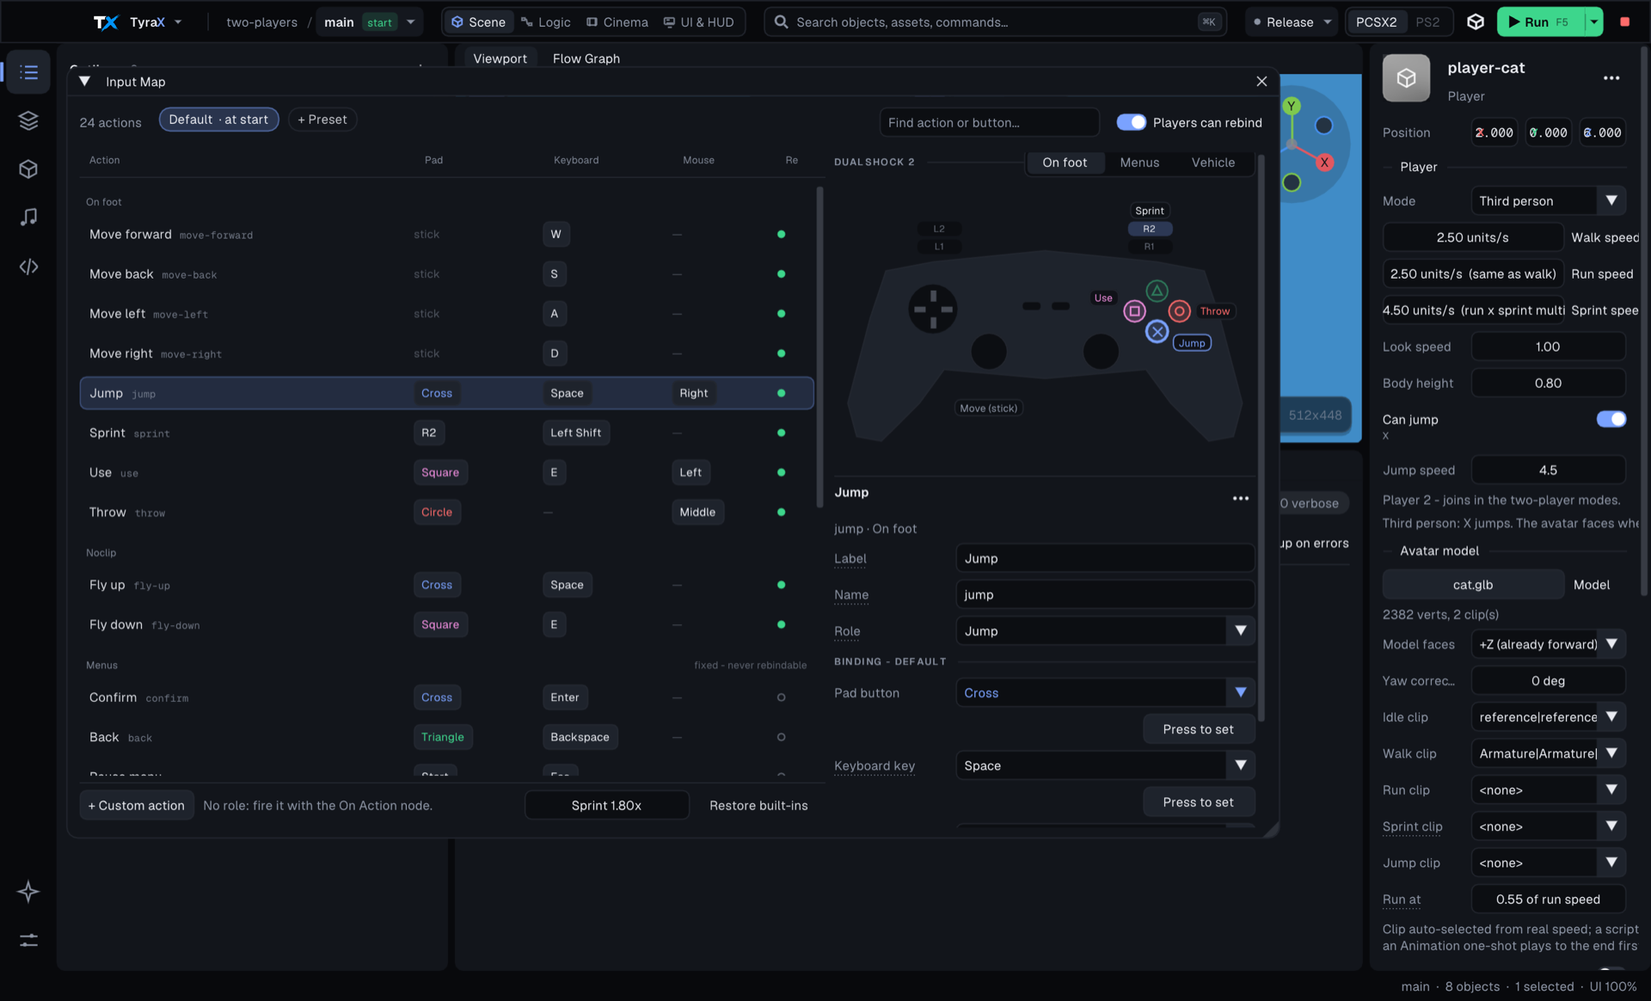
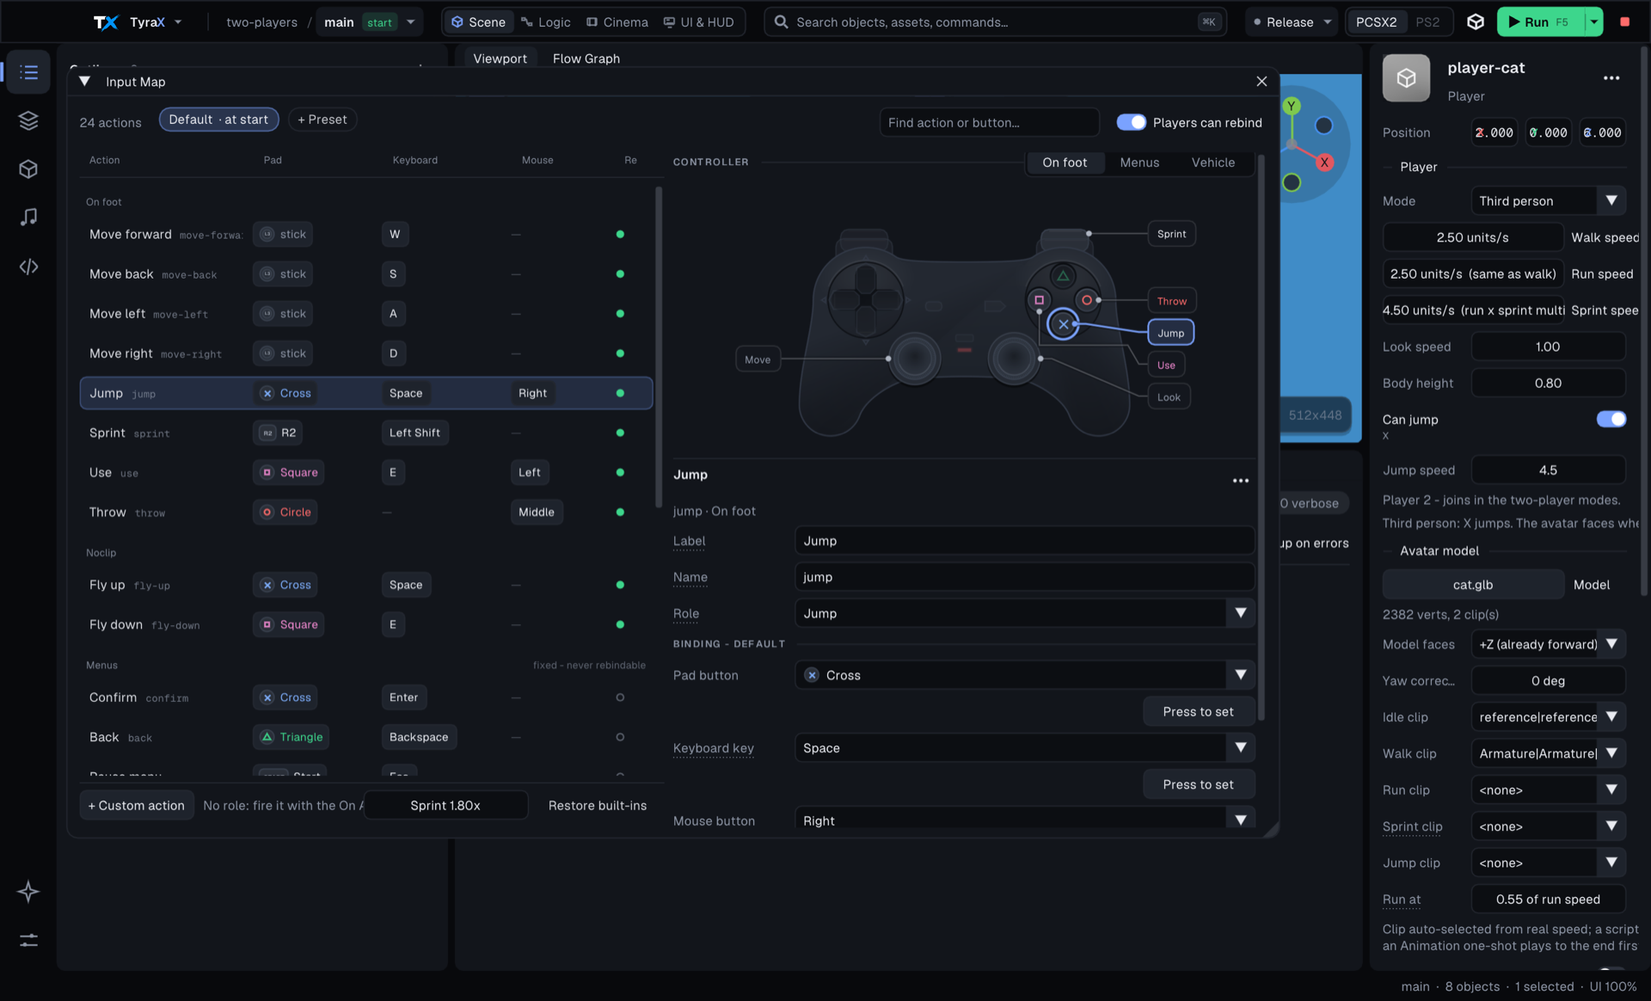
Docs: the controller widget - CHANGELOG, editor theme, skills, retaken shots
CHANGELOG 1.173.0 Finishing touches: one controller drawing, Remote Pad,
Input Map, pad-button pickers, AI press_pad. docs/editor-theme.md: a
"Controller" paragraph under Tool windows. Skills (both mirrors,
byte-identical): the pad kit section and its traps
(editor-ui-and-conventions), pad_widget.cpp in the source map, the item
names / ##Combo qualification in ui-script.md. Retaken docs/img/remote-pad.png
(day-night, keyboard on, Cross + R1 latched) and docs/img/input-map.png
(two-players, Jump selected) with --ui-script; the Input Map caption names
the controller drawing.

diff --git a/.agents/skills/tyra-editor-dev/references/editor-ui-and-conventions.md b/.agents/skills/tyra-editor-dev/references/editor-ui-and-conventions.md
@@ -78,6 +78,7 @@ A new setting lands inside this shape:
 - Panels as rounded cards = `ImGuiStyle::DockNodeRounding` (an in-tree ImGui patch, `vendor/imgui-tyrax/TYRAX-PATCHES.md`) set by `theme::applyMetrics`: tab bar rounded on top, docked window bg at the bottom. Full-bleed content in a docked panel (the viewport image) must round its own bottom corners with `DockNodeRounding` - the Viewport draws its texture with `AddImageRounded` over a `Dummy` for that reason.
 - Tool windows (docs/editor-theme.md "Tool windows"): docked via `App::dockToolWindows` (a new tool joins its `tools[]` table as Side/Visual/Page and calls `toolDockReady()` / `takeToolFocus()` before `Begin`); the start page is a `Welcome` window over a `KeepAliveOnly` dockspace (host sent to the back each frame); previews are second renders - `Viewport::renderGameView(slot, ...)` (game view: no grid/markers/gizmos/selection; one private target per `GameViewSlot`, re-rendered only when its key changes; `renderShot` wraps it), `assetOrbitView`, `prefabThumb` - never a hijacked viewport, and a tool that wants a scene picture takes its OWN slot (a shared target shows whichever window drew last). `assetThumb` must not cache 0 for a .glb whose bake is still running. Traps the redesign hit: every `uiFxSel_` kind needs its own id (motion blur = 10); `ui::Caption` upper-cases byte-wise (ASCII only, zero width - no SameLine after it); a `FontScope` must not span `EndTable`/`EndChild`; a canvas `InvisibleButton` under overlay buttons needs `SetNextItemAllowOverlap`; `uiscript::markLastItemChecked` must be called with false too; quiet tabs forced with SetSelected - ignore BeginTabItem's return on that frame; drawing after `SetCursorScreenPos` at a child's end needs a `Dummy(0,0)` first; `IMGUI_TEST_ENGINE_ITEM_INFO` reads a local `g` (no parameter named g); `theme::apply(ImGuiDark)` writes the CONTEXT style - call `applyTheme()` after reading another palette.
 - Tool windows are built from `src/toolkit.hpp` (`ui::`): one `PrimaryButton` per view, `EmptyState` (glyph, title, why, action) instead of a bare "No X.", `ListRow`/`ThumbTile`+`TileFlow` for collections, `VSplitter`/`HSplitter` between `BeginChild` panes (list | detail | preview), `BeginCard`, `Caption`, `ProgressInline` where the work happens, `StatusLine`/`Badge`, `UsedBy` links, `Segmented`. Same label=ID contract as widgets.hpp; colours only from `theme::semantics()`.
+- **Pad buttons are drawn and picked ONLY through the `pad` kit section** (`src/pad_widget.cpp`): `ui::PadDiagram` (Interactive = Remote Pad, Annotated = Input Map, Compact = cards/pickers), `PadButtonGlyph`/`PadButtonGlyphAt` (cells, chips), `PadButtonCombo` (any "which button" field; stores the kPadButtonNames name), `PadPortSegmented` (Pad 1/2 with port dots). Index by `kPadButtonNames` (input.hpp), never `livelogic::padButtons()` (different order). Colours: `theme::padColors()` (Graphite + light tables, other themes derived in theme.cpp `padOf`); face symbols use the real-pad tokens, not accent/danger. The widget owns no pad logic - callers read `PadDiagramOut` (clicked/held/stick drag) and feed `PadState` back. Traps: items are named `L2 L1 R1 R2 Up Left Right Down Triangle Square Circle Cross Select Start L3 R3` with NO PushID - one item-submitting diagram per window, and a window that also has a "Cross" widget makes bare `click Cross` ambiguous (qualify: `'##Combo/Triangle'` for the picker popup); `disabled` veils the drawing with `PadState::backdrop` (set it when the pad sits on a card, not the window bg) instead of per-primitive alpha, which let the tabs show through the body; `PadButtonCombo` names its combo for --ui-script itself (BeginCombo reports no label).
 - `src/widgets.hpp` (`ui::`): `boldFont()`/`monoFont()` (null = no face, `PushFont(nullptr,0)` keeps the current one), `FontScope`, `AxisDrag3` (DragScalarN skeleton: group + `PushID(label)` + unlabeled drags + `TextEx` label - like stock DragFloat3 the label is NOT a `--ui-script` name; target the fields by `dump` rect). New shared widgets go here and keep ImGui's label=ID / return / `IsItemDeactivatedAfterEdit` contract. The log panels measure (`logRefresh`) AND draw in the mono face - keep both inside the push.
 - `App::applyTheme()` = colours + metrics + scale, in that order; `baseStyle_` IS the themed style (`applyUiScale()` resets to it on every zoom step), and it must run AFTER `ImNodes::CreateContext()`. `ImGuiStyle`'s ctor leaves `FontSizeBase` 0, so the scale path restores `uiFontSize_` (0 = keep the built-in font's size). The EDITOR's typeface is embedded Geist (`resources/fonts`, `uifonts::kGeist*` from embed_binary.cmake; `FontDataOwnedByAtlas=false` - the bytes live in the exe); the system chains are MERGED behind each Geist face as glyph fallbacks: `platform::uiFontFiles` (regular + same-family heading cut, `.ttc` face index) and `platform::monoFontFiles` (separate from game font lookup); no variable fonts (stb_truetype cannot pick a weight).
 

diff --git a/.claude/skills/tyra-editor-dev/references/editor-ui-and-conventions.md b/.claude/skills/tyra-editor-dev/references/editor-ui-and-conventions.md
@@ -78,6 +78,7 @@ A new setting lands inside this shape:
 - Panels as rounded cards = `ImGuiStyle::DockNodeRounding` (an in-tree ImGui patch, `vendor/imgui-tyrax/TYRAX-PATCHES.md`) set by `theme::applyMetrics`: tab bar rounded on top, docked window bg at the bottom. Full-bleed content in a docked panel (the viewport image) must round its own bottom corners with `DockNodeRounding` - the Viewport draws its texture with `AddImageRounded` over a `Dummy` for that reason.
 - Tool windows (docs/editor-theme.md "Tool windows"): docked via `App::dockToolWindows` (a new tool joins its `tools[]` table as Side/Visual/Page and calls `toolDockReady()` / `takeToolFocus()` before `Begin`); the start page is a `Welcome` window over a `KeepAliveOnly` dockspace (host sent to the back each frame); previews are second renders - `Viewport::renderGameView(slot, ...)` (game view: no grid/markers/gizmos/selection; one private target per `GameViewSlot`, re-rendered only when its key changes; `renderShot` wraps it), `assetOrbitView`, `prefabThumb` - never a hijacked viewport, and a tool that wants a scene picture takes its OWN slot (a shared target shows whichever window drew last). `assetThumb` must not cache 0 for a .glb whose bake is still running. Traps the redesign hit: every `uiFxSel_` kind needs its own id (motion blur = 10); `ui::Caption` upper-cases byte-wise (ASCII only, zero width - no SameLine after it); a `FontScope` must not span `EndTable`/`EndChild`; a canvas `InvisibleButton` under overlay buttons needs `SetNextItemAllowOverlap`; `uiscript::markLastItemChecked` must be called with false too; quiet tabs forced with SetSelected - ignore BeginTabItem's return on that frame; drawing after `SetCursorScreenPos` at a child's end needs a `Dummy(0,0)` first; `IMGUI_TEST_ENGINE_ITEM_INFO` reads a local `g` (no parameter named g); `theme::apply(ImGuiDark)` writes the CONTEXT style - call `applyTheme()` after reading another palette.
 - Tool windows are built from `src/toolkit.hpp` (`ui::`): one `PrimaryButton` per view, `EmptyState` (glyph, title, why, action) instead of a bare "No X.", `ListRow`/`ThumbTile`+`TileFlow` for collections, `VSplitter`/`HSplitter` between `BeginChild` panes (list | detail | preview), `BeginCard`, `Caption`, `ProgressInline` where the work happens, `StatusLine`/`Badge`, `UsedBy` links, `Segmented`. Same label=ID contract as widgets.hpp; colours only from `theme::semantics()`.
+- **Pad buttons are drawn and picked ONLY through the `pad` kit section** (`src/pad_widget.cpp`): `ui::PadDiagram` (Interactive = Remote Pad, Annotated = Input Map, Compact = cards/pickers), `PadButtonGlyph`/`PadButtonGlyphAt` (cells, chips), `PadButtonCombo` (any "which button" field; stores the kPadButtonNames name), `PadPortSegmented` (Pad 1/2 with port dots). Index by `kPadButtonNames` (input.hpp), never `livelogic::padButtons()` (different order). Colours: `theme::padColors()` (Graphite + light tables, other themes derived in theme.cpp `padOf`); face symbols use the real-pad tokens, not accent/danger. The widget owns no pad logic - callers read `PadDiagramOut` (clicked/held/stick drag) and feed `PadState` back. Traps: items are named `L2 L1 R1 R2 Up Left Right Down Triangle Square Circle Cross Select Start L3 R3` with NO PushID - one item-submitting diagram per window, and a window that also has a "Cross" widget makes bare `click Cross` ambiguous (qualify: `'##Combo/Triangle'` for the picker popup); `disabled` veils the drawing with `PadState::backdrop` (set it when the pad sits on a card, not the window bg) instead of per-primitive alpha, which let the tabs show through the body; `PadButtonCombo` names its combo for --ui-script itself (BeginCombo reports no label).
 - `src/widgets.hpp` (`ui::`): `boldFont()`/`monoFont()` (null = no face, `PushFont(nullptr,0)` keeps the current one), `FontScope`, `AxisDrag3` (DragScalarN skeleton: group + `PushID(label)` + unlabeled drags + `TextEx` label - like stock DragFloat3 the label is NOT a `--ui-script` name; target the fields by `dump` rect). New shared widgets go here and keep ImGui's label=ID / return / `IsItemDeactivatedAfterEdit` contract. The log panels measure (`logRefresh`) AND draw in the mono face - keep both inside the push.
 - `App::applyTheme()` = colours + metrics + scale, in that order; `baseStyle_` IS the themed style (`applyUiScale()` resets to it on every zoom step), and it must run AFTER `ImNodes::CreateContext()`. `ImGuiStyle`'s ctor leaves `FontSizeBase` 0, so the scale path restores `uiFontSize_` (0 = keep the built-in font's size). The EDITOR's typeface is embedded Geist (`resources/fonts`, `uifonts::kGeist*` from embed_binary.cmake; `FontDataOwnedByAtlas=false` - the bytes live in the exe); the system chains are MERGED behind each Geist face as glyph fallbacks: `platform::uiFontFiles` (regular + same-family heading cut, `.ttc` face index) and `platform::monoFontFiles` (separate from game font lookup); no variable fonts (stb_truetype cannot pick a weight).
 

diff --git a/.agents/skills/tyra-testing/references/ui-script.md b/.agents/skills/tyra-testing/references/ui-script.md
@@ -46,6 +46,7 @@ The editor runs for real and holds its own mouse/keyboard, naming WIDGETS. No fo
 - **Input trickles one event per frame** (`io.ConfigInputTrickleEventQueue`). `wheel X -19` keeps scrolling ≥19 frames; a click computed during the scroll lands on whatever slid under it and reports SUCCESS. Measured: `frames 10` → view moved 300 px more, button never pressed; `frames 90` → two dumps agree, click lands. Rule: **`frames 60`–`90` after any `wheel`, then `dump` twice and require equal rects.** Same for `text` → `frames 5` before clicking the button that consumes it (`BeginDisabled` on an empty field makes an early Send a no-op that "succeeds").
 - **Popup items live in their own window** (`##Popup_<hash>`): grep `dump` for the LABEL, confirm with `shot` before calling a popup broken.
 - Names added by the 1.173 finishing round: `Asset preview` (Asset Browser inspector canvas: drag = orbit), `Vehicle Editor/Near` / `Far`, `Show probes in viewport` (GI tab, below the fold - wheel first), `Play clip` / `Pause clip` / `##cliptime` (Import model), `Bones` (Animation Editor), Material Editor `Source` / `Colour` / `Range` / `Invert`, Drone pills `Layer 1`..`Layer 4` (voice chips by full window path - `dump` shows them as 1..6), World Facts `##qfilter` / `##rfilter` / `##sfilter` / `##bbfilter`, `Viewport/##viewport_header_*/Move panel`, Ambience `Simple` / `Detailed` / look names / `Time of day` / fog `Off`..`Thick` / `Time passes`. Drone Generator: `Drone Generator/Simple` / `Detailed` (qualify - Ambience has the same pair), `##drn_mood_N`, `##drn_bright`..`##drn_chimes`, `##drn_shape`, `##drn_feeling`, `##drn_loud`, `30 s`/`1 min` chips, `Another take`, `Undo`, `Save to project`, `Open in Flow`, `+ Play in another scene...`. View > Static batches sits below the View menu's bottom at the default height - use Tools > Static Batches > *Colour batches in viewport*.
+- **Controller drawings** (Remote Pad, Input Map, pad-button pickers): each element is an item named `L2 L1 R1 R2 Up Left Right Down Triangle Square Circle Cross Select Start L3 R3`, checked = pressed (Input Map: = the selected action's button) - `shiftclick 'Remote Pad/Cross'` (with *Shift-click holds a button* on) then `expect-checked 'Remote Pad/Cross'` asserts what the game is sent. A pad-button combo (`'Input Map/Pad button'`, `'Flow Graph/Button'` with the node selected, `'Properties/Toggle button'`) opens a popup with the same pad items plus list rows named `Cross`, `DpadUp`...; qualify them as `'##Combo/Triangle'` - a bare `Triangle` hits the Input Map's own diagram first. Flow Graph node ids live in `objects/<id>.json`; check the RIGHT object (two-player examples have several players).
 - Close floating tool windows (or drop their open flag in the scratch layout) before scripted scene selection — an overlapping Tree Generator intercepts clicks.
 - The automatic startup update check is skipped while a UI script runs (`uiScriptActive_`).
 - Hermetic runs: set `XDG_CONFIG_HOME` (or `LOCALAPPDATA`) to a scratch dir — `editor.ini` and history persist toggles (e.g. `chatAllowEdits_`) into the next run; a scripted checkbox click is a toggle, so `expect-checked` right after.

diff --git a/.claude/skills/tyra-testing/references/ui-script.md b/.claude/skills/tyra-testing/references/ui-script.md
@@ -46,6 +46,7 @@ The editor runs for real and holds its own mouse/keyboard, naming WIDGETS. No fo
 - **Input trickles one event per frame** (`io.ConfigInputTrickleEventQueue`). `wheel X -19` keeps scrolling ≥19 frames; a click computed during the scroll lands on whatever slid under it and reports SUCCESS. Measured: `frames 10` → view moved 300 px more, button never pressed; `frames 90` → two dumps agree, click lands. Rule: **`frames 60`–`90` after any `wheel`, then `dump` twice and require equal rects.** Same for `text` → `frames 5` before clicking the button that consumes it (`BeginDisabled` on an empty field makes an early Send a no-op that "succeeds").
 - **Popup items live in their own window** (`##Popup_<hash>`): grep `dump` for the LABEL, confirm with `shot` before calling a popup broken.
 - Names added by the 1.173 finishing round: `Asset preview` (Asset Browser inspector canvas: drag = orbit), `Vehicle Editor/Near` / `Far`, `Show probes in viewport` (GI tab, below the fold - wheel first), `Play clip` / `Pause clip` / `##cliptime` (Import model), `Bones` (Animation Editor), Material Editor `Source` / `Colour` / `Range` / `Invert`, Drone pills `Layer 1`..`Layer 4` (voice chips by full window path - `dump` shows them as 1..6), World Facts `##qfilter` / `##rfilter` / `##sfilter` / `##bbfilter`, `Viewport/##viewport_header_*/Move panel`, Ambience `Simple` / `Detailed` / look names / `Time of day` / fog `Off`..`Thick` / `Time passes`. Drone Generator: `Drone Generator/Simple` / `Detailed` (qualify - Ambience has the same pair), `##drn_mood_N`, `##drn_bright`..`##drn_chimes`, `##drn_shape`, `##drn_feeling`, `##drn_loud`, `30 s`/`1 min` chips, `Another take`, `Undo`, `Save to project`, `Open in Flow`, `+ Play in another scene...`. View > Static batches sits below the View menu's bottom at the default height - use Tools > Static Batches > *Colour batches in viewport*.
+- **Controller drawings** (Remote Pad, Input Map, pad-button pickers): each element is an item named `L2 L1 R1 R2 Up Left Right Down Triangle Square Circle Cross Select Start L3 R3`, checked = pressed (Input Map: = the selected action's button) - `shiftclick 'Remote Pad/Cross'` (with *Shift-click holds a button* on) then `expect-checked 'Remote Pad/Cross'` asserts what the game is sent. A pad-button combo (`'Input Map/Pad button'`, `'Flow Graph/Button'` with the node selected, `'Properties/Toggle button'`) opens a popup with the same pad items plus list rows named `Cross`, `DpadUp`...; qualify them as `'##Combo/Triangle'` - a bare `Triangle` hits the Input Map's own diagram first. Flow Graph node ids live in `objects/<id>.json`; check the RIGHT object (two-player examples have several players).
 - Close floating tool windows (or drop their open flag in the scratch layout) before scripted scene selection — an overlapping Tree Generator intercepts clicks.
 - The automatic startup update check is skipped while a UI script runs (`uiScriptActive_`).
 - Hermetic runs: set `XDG_CONFIG_HOME` (or `LOCALAPPDATA`) to a scratch dir — `editor.ini` and history persist toggles (e.g. `chatAllowEdits_`) into the next run; a scripted checkbox click is a toggle, so `expect-checked` right after.

diff --git a/CHANGELOG.md b/CHANGELOG.md
@@ -64,6 +64,11 @@ Each tool now shows what it makes as the hero, puts its one main action in plain
 - Opening a project can be cancelled while it loads (Cancel or Esc).
 - **Input Map**: *Press to set* for the mouse button.
 - The **command palette** (Ctrl/Cmd+K) finds every menu command, with its menu path and shortcut.
+- **One controller drawing everywhere**: Remote Pad, the Input Map and every pad-button picker now show the same DualShock 2 - two round lobes, the four-key d-pad, the face buttons in their real colours, L2/L1 and R1/R2 as stacked tabs, Select/Start/Analog with its LED and big ridged sticks.
+- **Remote Pad**: a pressed button fills and glows whatever pressed it (mouse, keys, a `--pad` script or the AI); the P1/P2 badge and the Pad 1/Pad 2 dots show the port; the stick gauges show the deadzone and the numbers sit under the pad; key caps sit beside the buttons they drive; the card lists what is held. With no game running the pad dims and its LED goes out.
+- **Input Map**: the controller labels every bound button in tidy columns (leaders never cross), rings the selected action's button and marks two actions on one button in amber; click a button to select its action. *Press to set* makes the pad pulse - click the button on the drawing when no controller is connected. The Pad column shows each button's symbol.
+- **Pad-button pickers** (Input Map, the Flow Graph's On Button, the flashlight's Toggle button) show the button's symbol and open over a small pad you can click.
+- **AI Assistant**: a `press_pad` step shows small controllers with what the assistant pressed and for how long.
 ## 1.172.2 - 2026-10-16
 
 ### Releases

diff --git a/.agents/skills/tyra-editor-dev/references/source-map.md b/.agents/skills/tyra-editor-dev/references/source-map.md
@@ -56,6 +56,7 @@ Read when you need to find which file owns something, or before adding a file. L
 | `menu_actions.cpp/.hpp` | 126 | `menuact::BeginMenu/EndMenu/MenuItem` - plain ImGui when drawing, a harvest pass for the command palette (every main-menu item must use them) | editor-ui-and-conventions |
 | `palette_ui.cpp` | 450 | Command palette (Ctrl/Cmd+K; Ctrl+Enter hands the query to the AI Assistant): commands, objects, scenes, windows (`windowTitle` table over `chatWindowKeys`), layouts, docs (`aichat::docIndex`) | editor-ui-and-conventions |
 | `toolkit.cpp/.hpp` | 330 | Tool-window kit (`ui::`): PrimaryButton/DangerButton/GhostButton, VSplitter/HSplitter, BeginCard, Caption, ListRow, ThumbTile+TileFlow, EmptyState, ProgressInline, StatusLine, Badge, UsedBy, Segmented | editor-ui-and-conventions |
+| `pad_widget.cpp` | 1.2k | The toolkit's `pad` section: `ui::PadDiagram` (the one DualShock 2 - geometry table, Interactive/Annotated/Compact, callout slots), `PadButtonGlyph`, `PadButtonCombo`, `PadPortSegmented` | editor-ui-and-conventions |
 | `widgets.cpp/.hpp` | 130 | `ui::` shared widgets (AxisDrag3, Keycap, ShortcutChord) + heading/mono faces | editor-ui-and-conventions |
 | `uiscript.cpp/.hpp` | 740 | `--ui-script` item registry + script | editor-ui-and-conventions |
 | `viewport.cpp/.hpp` | 8.8k / 1.6k | Offscreen GL 3.3 preview | viewport |

diff --git a/.claude/skills/tyra-editor-dev/references/source-map.md b/.claude/skills/tyra-editor-dev/references/source-map.md
@@ -56,6 +56,7 @@ Read when you need to find which file owns something, or before adding a file. L
 | `menu_actions.cpp/.hpp` | 126 | `menuact::BeginMenu/EndMenu/MenuItem` - plain ImGui when drawing, a harvest pass for the command palette (every main-menu item must use them) | editor-ui-and-conventions |
 | `palette_ui.cpp` | 450 | Command palette (Ctrl/Cmd+K; Ctrl+Enter hands the query to the AI Assistant): commands, objects, scenes, windows (`windowTitle` table over `chatWindowKeys`), layouts, docs (`aichat::docIndex`) | editor-ui-and-conventions |
 | `toolkit.cpp/.hpp` | 330 | Tool-window kit (`ui::`): PrimaryButton/DangerButton/GhostButton, VSplitter/HSplitter, BeginCard, Caption, ListRow, ThumbTile+TileFlow, EmptyState, ProgressInline, StatusLine, Badge, UsedBy, Segmented | editor-ui-and-conventions |
+| `pad_widget.cpp` | 1.2k | The toolkit's `pad` section: `ui::PadDiagram` (the one DualShock 2 - geometry table, Interactive/Annotated/Compact, callout slots), `PadButtonGlyph`, `PadButtonCombo`, `PadPortSegmented` | editor-ui-and-conventions |
 | `widgets.cpp/.hpp` | 130 | `ui::` shared widgets (AxisDrag3, Keycap, ShortcutChord) + heading/mono faces | editor-ui-and-conventions |
 | `uiscript.cpp/.hpp` | 740 | `--ui-script` item registry + script | editor-ui-and-conventions |
 | `viewport.cpp/.hpp` | 8.8k / 1.6k | Offscreen GL 3.3 preview | viewport |

diff --git a/docs/editor-theme.md b/docs/editor-theme.md
@@ -269,6 +269,18 @@ and stroke icons that never depend on the font (`ui::TransportBar`,
 `ThumbTileEx`), notes (`NoteCard`, `Callout`, `Note`), meters and the
 `RecordButton`.
 
+**Controller.** Every place that shows or picks a pad button draws the same
+DualShock 2 (`ui::PadDiagram`, the kit's `pad` section, `src/pad_widget.cpp`):
+Remote Pad drives it (*Interactive*), the Input Map labels it (*Annotated*:
+callout pills in fixed slots, leaders that never cross), pickers and AI cards
+use a small one (*Compact*), and table cells and combo previews an inline
+button token (`PadButtonGlyph`; `PadButtonCombo` is the picker). Pressed looks
+the same whatever pressed it; the body follows the theme
+(`theme::padColors()`: Graphite and light pages have their own tables, the
+other themes derive theirs), but the four face symbols keep the real pad's
+colours in every theme. Each element is an item named after its button (`L2`
+... `R3`), so scripts click and assert it by name.
+
 ## For developers: adding a colour, adding a theme
 
 `src/theme.hpp` is the whole interface. The rule that keeps the themes honest:

diff --git a/docs/input-bindings.md b/docs/input-bindings.md
@@ -6,7 +6,7 @@ that had no recourse. Now every button read goes through a named **action**,
 actions are bound in per-project **presets**, and the player can **rebind them
 in-game** from a menu row.
 
-![The Input Map on examples/two-players: preset tabs and the find field in the header, the binding matrix grouped On foot / Noclip / Menus / Vehicle with pad, keyboard and mouse keycaps, the DualShock 2 diagram with the on-foot callouts, and the selected Jump action's bindings.](img/input-map.png)
+![The Input Map on examples/two-players: preset tabs and the find field in the header, the binding matrix grouped On foot / Noclip / Menus / Vehicle with pad glyphs, keyboard and mouse keycaps, the controller drawing with the on-foot callouts, and the selected Jump action's bindings.](img/input-map.png)
 
 **The window.** *Tools > Input Map* shows the whole map at once:
 
